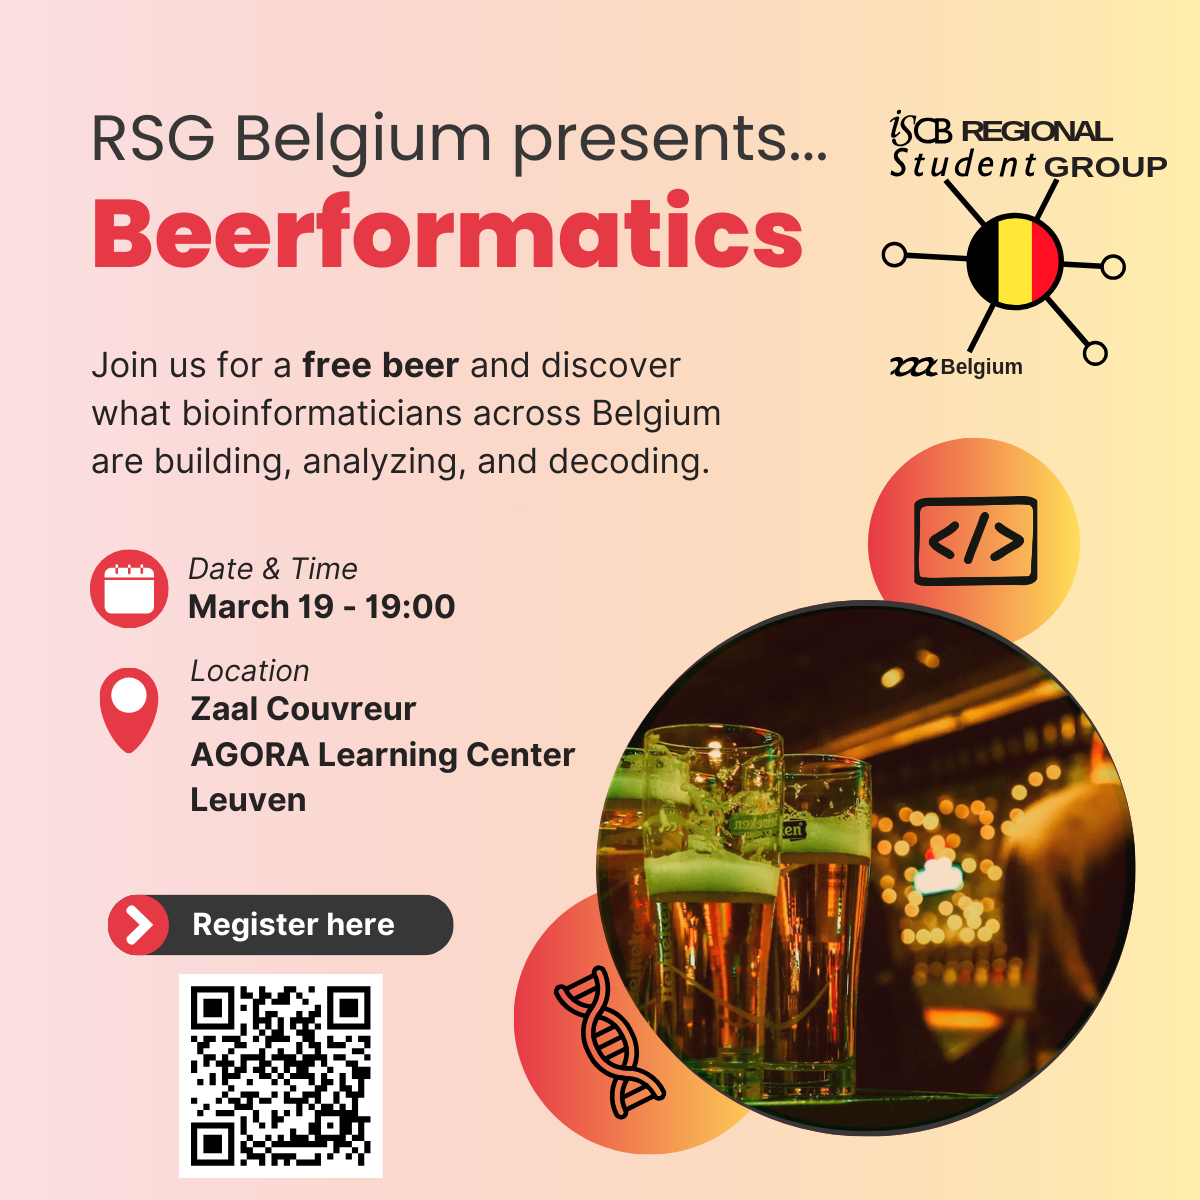
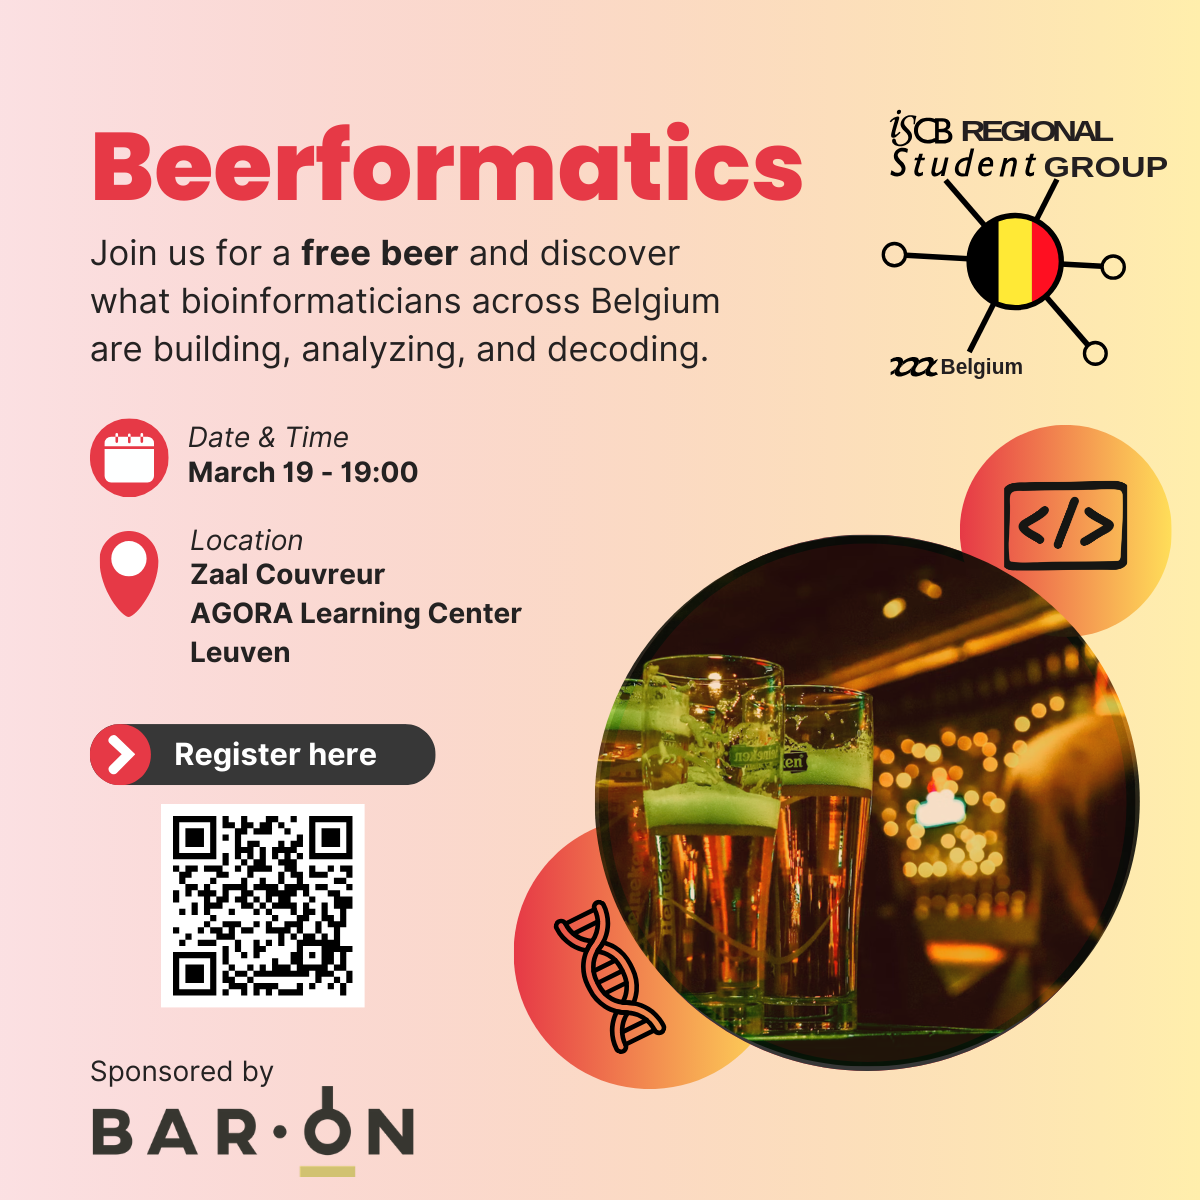
add beerformatics sponsorship info

diff --git a/content/news/2026-02-27-fourth-beerformatics.md b/content/news/2026-02-27-fourth-beerformatics.md
@@ -11,8 +11,8 @@ Beerformatics is back after five years, and we are kicking off the Spring 2026 e
 
 [![full](/images/poster/Beerformatics.png)](/images/poster/Beerformatics.png)
 
-Join us for an evening of fast-paced science, great conversations, and free beer (or a soft drink), on March 19, 19:00, Zaal Couvreur, Agora Learning Center, Leuven.
+Join us for an evening of fast-paced science, great conversations, and free beer (or a soft drink).  March 19, 19:00  Zaal Couvreur, Agora Learning Center, Leuven.
 
-Expect three 10-minute talks from young researchers working at the forefront of bioinformatics and AI in life sciences, followed by informal networking. Stay tuned as we will reveal the speakers soon!
+Expect three 10-minute talks from young researchers working at the forefront of bioinformatics and AI in life sciences, followed by informal networking with beers from our sponsor [Baron Bar](https://baron.bar/). Stay tuned as we will reveal the speakers soon!
 
 Spots are limited. Register now and be part of the relaunch: [Registration link](https://forms.gle/h3QKAQESjAh2wgP67)
